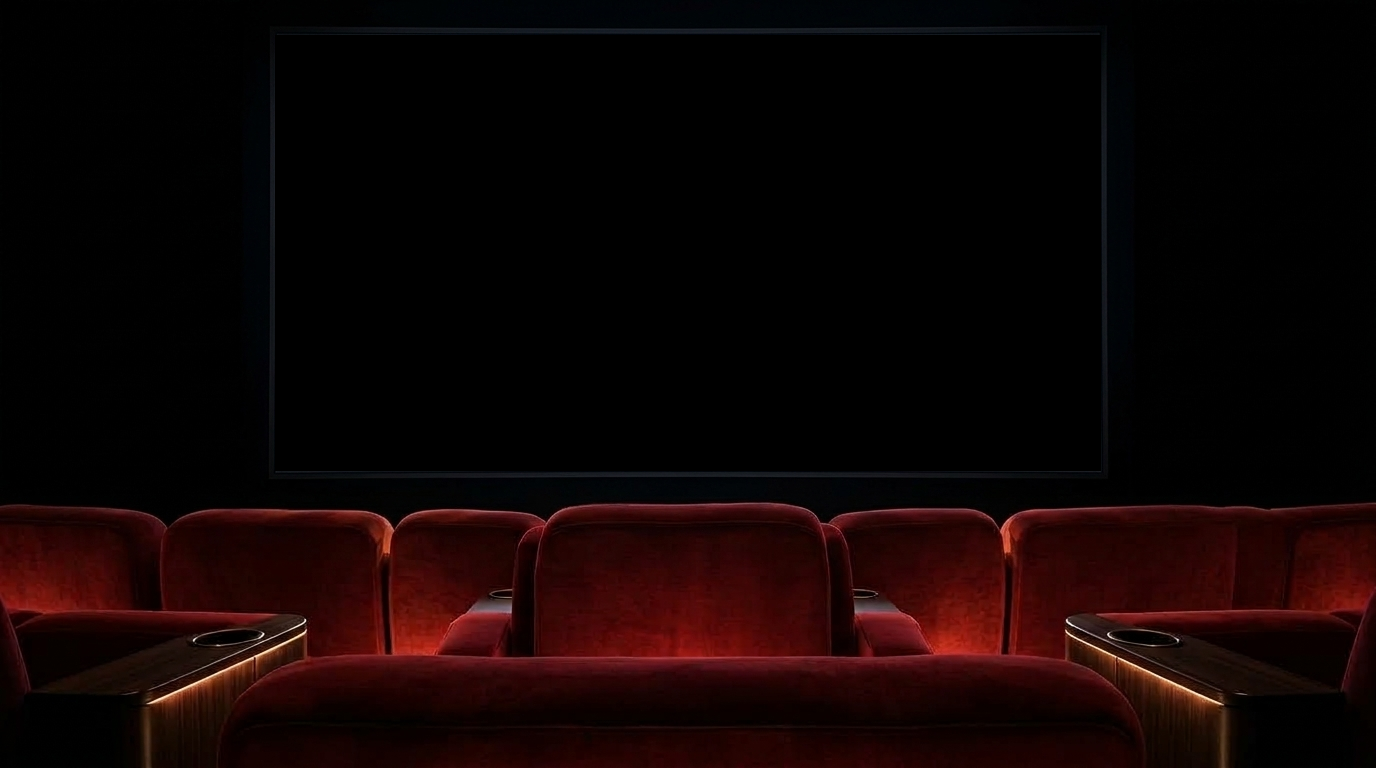
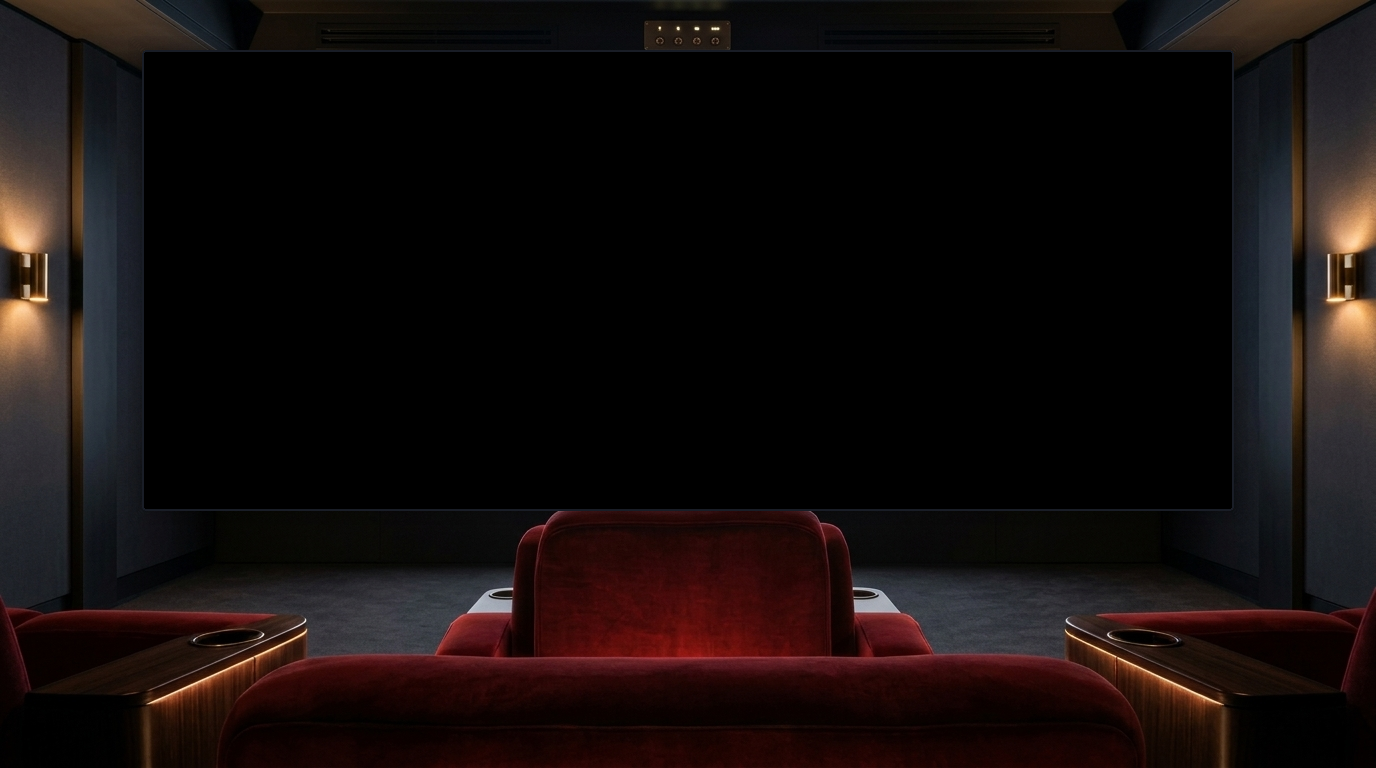
feat: move theater screen down, pull background back with front VIP seats only, remove other seats

diff --git a/apps/web/src/components/player/PixelPerfectTheater.tsx b/apps/web/src/components/player/PixelPerfectTheater.tsx
@@ -266,26 +266,26 @@ export function PixelPerfectTheater({
   const screenStyle = useMemo(() => {
     if (isImax) {
       return {
-        top: '1.8%',
-        left: '3%',
-        width: '94%',
-        height: '67.5%',
+        top: '6.0%',
+        left: '4%',
+        width: '92%',
+        height: '61%',
       };
     }
     if (isLarge) {
       return {
-        top: '2.5%',
+        top: '6.8%',
         left: '10.5%',
         width: '79%',
-        height: '64.5%',
+        height: '59.5%',
       };
     }
-    // standard (original 60%)
+    // standard
     return {
-      top: '4.55%',
-      left: '19.98%',
-      width: '59.95%',
-      height: '56.64%',
+      top: '7.8%',
+      left: '18%',
+      width: '64%',
+      height: '54%',
     };
   }, [isImax, isLarge]);
 
@@ -496,13 +496,13 @@ export function PixelPerfectTheater({
                 onToggleCamera={onToggleCamera}
                 userAvatarUrl={userAvatarUrl}
               />
-            ) : (
+            ) : participants.length === 0 ? (
               <TheaterEmptyInviteSlot
                 onCopyInvite={onCopyInvite}
                 copiedInvite={copiedInvite}
                 seatNumber={1}
               />
-            )}
+            ) : null}
 
             {/* Left Slot 2 (Seat 2) */}
             {seats[1] ? (
@@ -512,13 +512,13 @@ export function PixelPerfectTheater({
                 onToggleCamera={onToggleCamera}
                 userAvatarUrl={userAvatarUrl}
               />
-            ) : (
+            ) : participants.length === 1 ? (
               <TheaterEmptyInviteSlot
                 onCopyInvite={onCopyInvite}
                 copiedInvite={copiedInvite}
                 seatNumber={2}
               />
-            )}
+            ) : null}
           </div>
         )}
 
@@ -539,13 +539,13 @@ export function PixelPerfectTheater({
                 onToggleCamera={onToggleCamera}
                 userAvatarUrl={userAvatarUrl}
               />
-            ) : (
+            ) : participants.length === 2 ? (
               <TheaterEmptyInviteSlot
                 onCopyInvite={onCopyInvite}
                 copiedInvite={copiedInvite}
                 seatNumber={3}
               />
-            )}
+            ) : null}
 
             {/* Right Slot 4 (Seat 4) */}
             {seats[3] ? (
@@ -555,13 +555,13 @@ export function PixelPerfectTheater({
                 onToggleCamera={onToggleCamera}
                 userAvatarUrl={userAvatarUrl}
               />
-            ) : (
+            ) : participants.length === 3 ? (
               <TheaterEmptyInviteSlot
                 onCopyInvite={onCopyInvite}
                 copiedInvite={copiedInvite}
                 seatNumber={4}
               />
-            )}
+            ) : null}
           </div>
         )}
 
@@ -569,40 +569,44 @@ export function PixelPerfectTheater({
         {showCamPanel && !isImax && (
           <div className="absolute left-1/2 -translate-x-1/2 bottom-[68px] sm:bottom-[74px] flex items-center gap-3 sm:gap-5 z-30 pointer-events-auto animate-in fade-in slide-in-from-bottom-4 duration-300">
             {/* Bottom Slot 5 (Seat 5) */}
-            <div className={isLarge ? 'w-[125px] sm:w-[155px] md:w-[175px]' : 'w-[145px] sm:w-[185px] md:w-[205px]'}>
-              {seats[4] ? (
-                <TheaterCamTile
-                  participant={seats[4]}
-                  index={4}
-                  onToggleCamera={onToggleCamera}
-                  userAvatarUrl={userAvatarUrl}
-                />
-              ) : (
-                <TheaterEmptyInviteSlot
-                  onCopyInvite={onCopyInvite}
-                  copiedInvite={copiedInvite}
-                  seatNumber={5}
-                />
-              )}
-            </div>
+            {(seats[4] || participants.length === 4) && (
+              <div className={isLarge ? 'w-[125px] sm:w-[155px] md:w-[175px]' : 'w-[145px] sm:w-[185px] md:w-[205px]'}>
+                {seats[4] ? (
+                  <TheaterCamTile
+                    participant={seats[4]}
+                    index={4}
+                    onToggleCamera={onToggleCamera}
+                    userAvatarUrl={userAvatarUrl}
+                  />
+                ) : (
+                  <TheaterEmptyInviteSlot
+                    onCopyInvite={onCopyInvite}
+                    copiedInvite={copiedInvite}
+                    seatNumber={5}
+                  />
+                )}
+              </div>
+            )}
 
             {/* Bottom Slot 6 (Seat 6) */}
-            <div className={isLarge ? 'w-[125px] sm:w-[155px] md:w-[175px]' : 'w-[145px] sm:w-[185px] md:w-[205px]'}>
-              {seats[5] ? (
-                <TheaterCamTile
-                  participant={seats[5]}
-                  index={5}
-                  onToggleCamera={onToggleCamera}
-                  userAvatarUrl={userAvatarUrl}
-                />
-              ) : (
-                <TheaterEmptyInviteSlot
-                  onCopyInvite={onCopyInvite}
-                  copiedInvite={copiedInvite}
-                  seatNumber={6}
-                />
-              )}
-            </div>
+            {(seats[5] || participants.length === 5) && (
+              <div className={isLarge ? 'w-[125px] sm:w-[155px] md:w-[175px]' : 'w-[145px] sm:w-[185px] md:w-[205px]'}>
+                {seats[5] ? (
+                  <TheaterCamTile
+                    participant={seats[5]}
+                    index={5}
+                    onToggleCamera={onToggleCamera}
+                    userAvatarUrl={userAvatarUrl}
+                  />
+                ) : (
+                  <TheaterEmptyInviteSlot
+                    onCopyInvite={onCopyInvite}
+                    copiedInvite={copiedInvite}
+                    seatNumber={6}
+                  />
+                )}
+              </div>
+            )}
           </div>
         )}
 
